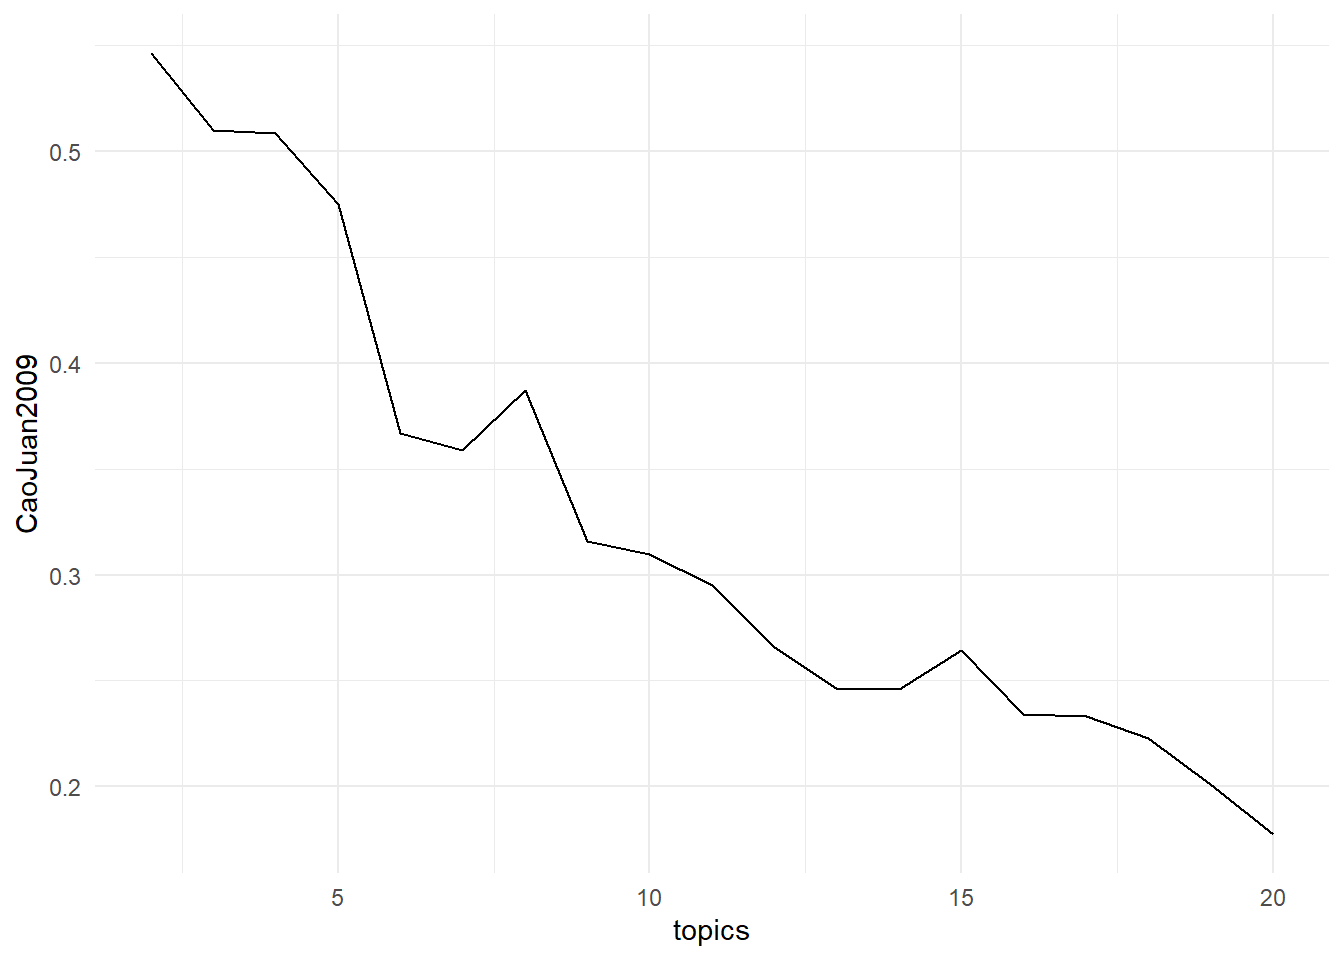
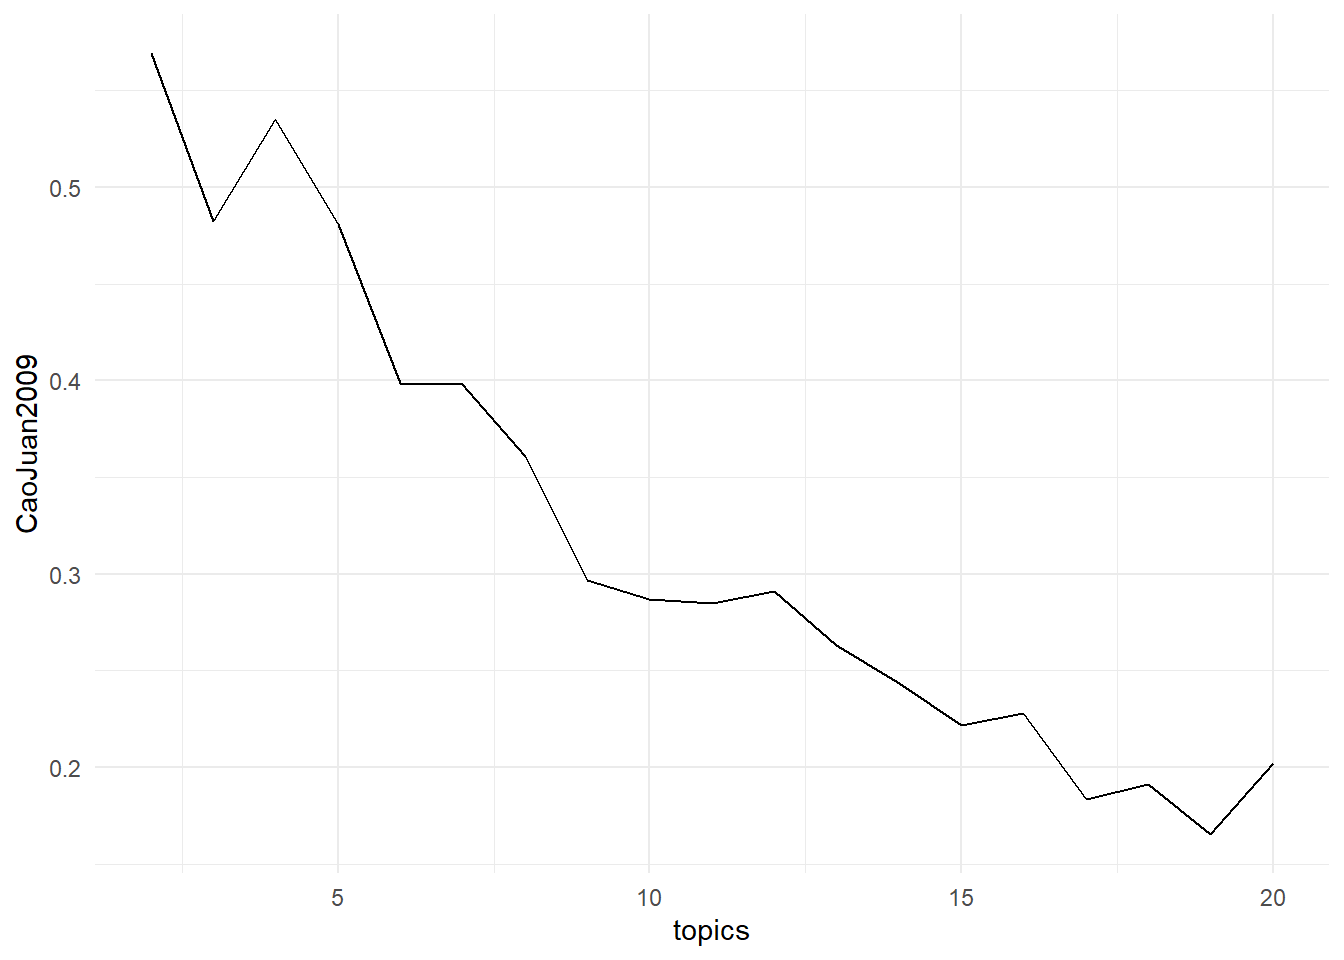
new image

diff --git a/docs/featured_projects/textAnalysis/index.html b/docs/featured_projects/textAnalysis/index.html
@@ -8,7 +8,7 @@
 
 <meta name="author" content="Sujan Bhattarai">
 
-<title>Measuring the most common word in new articles on climate science</title>
+<title>Identifying the most common word in articles on climate science</title>
 <style>
 code{white-space: pre-wrap;}
 span.smallcaps{font-variant: small-caps;}
@@ -152,7 +152,7 @@ pre > code.sourceCode > span > a:first-child::before { text-decoration: underlin
 
 <header id="title-block-header" class="quarto-title-block default">
 <div class="quarto-title">
-<h1 class="title">Measuring the most common word in new articles on climate science</h1>
+<h1 class="title">Identifying the most common word in articles on climate science</h1>
   <div class="quarto-categories">
     <div class="quarto-category">NLP</div>
     <div class="quarto-category">R</div>
@@ -177,8 +177,6 @@ pre > code.sourceCode > span > a:first-child::before { text-decoration: underlin
 
 </header>
 
-<section id="introduction" class="level4">
-<h4 class="anchored" data-anchor-id="introduction">Introduction</h4>
 <p>In today’s era of burgeoning information, understanding the predominant themes and trends in vast volumes of text data is crucial for extracting meaningful insights. This project focuses on leveraging Natural Language Processing (NLP) techniques to analyze a collection of articles centered on climate science. By employing advanced computational methods, we aim to uncover the most prevalent topics discussed across these articles, shedding light on key issues and their interconnectedness within the domain of climate science.</p>
 <p>Objectives 1. Data Collection and Preparation Data Retrieval: Obtain a comprehensive dataset comprising articles related to climate science, sourced from diverse publications. Data Cleaning: Standardize and preprocess the text data to remove noise, such as URLs, dates, and duplicates, ensuring a clean corpus for analysis. 2. Topic Modeling and Optimization Topic Extraction: Apply Latent Dirichlet Allocation (LDA) to identify latent topics within the article corpus. Optimization: Determine the optimal number of topics using quantitative metrics such as CaoJuan2009 and Deveaud2014, ensuring robust and interpretable results. 3. Insights Generation Topic Interpretation: Analyze and interpret the extracted topics to discern prevalent themes and their implications in climate science research. Visualization: Visualize topic distributions and top terms to facilitate intuitive understanding and exploration of thematic clusters.</p>
 <div class="cell">
@@ -310,25 +308,25 @@ calculate metrics:
 <div class="sourceCode cell-code" id="cb7"><pre class="sourceCode r code-with-copy"><code class="sourceCode r"><span id="cb7-1"><a href="#cb7-1" aria-hidden="true" tabindex="-1"></a>results</span></code><button title="Copy to Clipboard" class="code-copy-button"><i class="bi"></i></button></pre></div>
 <div class="cell-output cell-output-stdout">
 <pre><code>   topics CaoJuan2009 Deveaud2014
-1      20   0.1772879    1.315331
-2      19   0.2010516    1.346123
-3      18   0.2230256    1.332259
-4      17   0.2330089    1.360826
-5      16   0.2340249    1.392825
-6      15   0.2644767    1.378697
-7      14   0.2457606    1.464450
-8      13   0.2462769    1.480066
-9      12   0.2657727    1.520338
-10     11   0.2953084    1.509858
-11     10   0.3094999    1.523014
-12      9   0.3157522    1.519622
-13      8   0.3873199    1.483421
-14      7   0.3590052    1.537329
-15      6   0.3671024    1.556525
-16      5   0.4751929    1.546892
-17      4   0.5086420    1.560440
-18      3   0.5099931    1.637603
-19      2   0.5462848    1.604818</code></pre>
+1      20   0.2021806    1.280795
+2      19   0.1652779    1.347815
+3      18   0.1912704    1.356557
+4      17   0.1834667    1.424068
+5      16   0.2282236    1.425089
+6      15   0.2219616    1.427850
+7      14   0.2434244    1.446005
+8      13   0.2632456    1.460039
+9      12   0.2912719    1.465719
+10     11   0.2846825    1.541177
+11     10   0.2870910    1.553476
+12      9   0.2965633    1.588889
+13      8   0.3608896    1.530323
+14      7   0.3980003    1.496667
+15      6   0.3988200    1.551803
+16      5   0.4807731    1.520405
+17      4   0.5353746    1.548122
+18      3   0.4823344    1.609850
+19      2   0.5691497    1.536396</code></pre>
 </div>
 </div>
 <div class="cell">
@@ -351,23 +349,23 @@ calculate metrics:
 <div class="sourceCode cell-code" id="cb11"><pre class="sourceCode r code-with-copy"><code class="sourceCode r"><span id="cb11-1"><a href="#cb11-1" aria-hidden="true" tabindex="-1"></a><span class="co"># Plot the top terms in each topic</span></span>
 <span id="cb11-2"><a href="#cb11-2" aria-hidden="true" tabindex="-1"></a><span class="fu">terms</span>(topicModel_k2, <span class="dv">10</span>) <span class="co"># Most probable words in each topic</span></span></code><button title="Copy to Clipboard" class="code-copy-button"><i class="bi"></i></button></pre></div>
 <div class="cell-output cell-output-stdout">
-<pre><code>      Topic 1         Topic 2  
- [1,] "polar"         "bears"  
- [2,] "bear"          "polar"  
- [3,] "bears"         "ice"    
- [4,] "arctic"        "land"   
- [5,] "ice"           "energy" 
- [6,] "international" "study"  
- [7,] "day"           "said"   
- [8,] "animals"       "sea"    
- [9,] "will"          "time"   
-[10,] "change"        "climate"</code></pre>
+<pre><code>      Topic 1  Topic 2        
+ [1,] "bears"  "polar"        
+ [2,] "polar"  "bear"         
+ [3,] "land"   "bears"        
+ [4,] "energy" "ice"          
+ [5,] "ice"    "international"
+ [6,] "study"  "arctic"       
+ [7,] "said"   "day"          
+ [8,] "sea"    "will"         
+ [9,] "time"   "animals"      
+[10,] "bear"   "sea"          </code></pre>
 </div>
 <div class="sourceCode cell-code" id="cb13"><pre class="sourceCode r code-with-copy"><code class="sourceCode r"><span id="cb13-1"><a href="#cb13-1" aria-hidden="true" tabindex="-1"></a>tmResult <span class="ot">&lt;-</span> <span class="fu">posterior</span>(topicModel_k2)</span>
 <span id="cb13-2"><a href="#cb13-2" aria-hidden="true" tabindex="-1"></a><span class="fu">terms</span>(topicModel_k2)</span></code><button title="Copy to Clipboard" class="code-copy-button"><i class="bi"></i></button></pre></div>
 <div class="cell-output cell-output-stdout">
 <pre><code>Topic 1 Topic 2 
-"polar" "bears" </code></pre>
+"bears" "polar" </code></pre>
 </div>
 <div class="sourceCode cell-code" id="cb15"><pre class="sourceCode r code-with-copy"><code class="sourceCode r"><span id="cb15-1"><a href="#cb15-1" aria-hidden="true" tabindex="-1"></a>theta <span class="ot">&lt;-</span> tmResult<span class="sc">$</span>topics</span>
 <span id="cb15-2"><a href="#cb15-2" aria-hidden="true" tabindex="-1"></a>beta <span class="ot">&lt;-</span> tmResult<span class="sc">$</span>terms</span>
@@ -395,108 +393,103 @@ calculate metrics:
 <tbody>
 <tr class="odd">
 <td style="text-align: right;">1</td>
+<td style="text-align: left;">bears</td>
+<td style="text-align: right;">0.0577475</td>
+</tr>
+<tr class="even">
+<td style="text-align: right;">1</td>
 <td style="text-align: left;">polar</td>
-<td style="text-align: right;">0.0665901</td>
+<td style="text-align: right;">0.0339886</td>
+</tr>
+<tr class="odd">
+<td style="text-align: right;">1</td>
+<td style="text-align: left;">land</td>
+<td style="text-align: right;">0.0167543</td>
+</tr>
+<tr class="even">
+<td style="text-align: right;">1</td>
+<td style="text-align: left;">energy</td>
+<td style="text-align: right;">0.0144153</td>
+</tr>
+<tr class="odd">
+<td style="text-align: right;">1</td>
+<td style="text-align: left;">ice</td>
+<td style="text-align: right;">0.0144153</td>
+</tr>
+<tr class="even">
+<td style="text-align: right;">1</td>
+<td style="text-align: left;">study</td>
+<td style="text-align: right;">0.0142922</td>
+</tr>
+<tr class="odd">
+<td style="text-align: right;">1</td>
+<td style="text-align: left;">said</td>
+<td style="text-align: right;">0.0118302</td>
+</tr>
+<tr class="even">
+<td style="text-align: right;">1</td>
+<td style="text-align: left;">sea</td>
+<td style="text-align: right;">0.0101067</td>
+</tr>
+<tr class="odd">
+<td style="text-align: right;">1</td>
+<td style="text-align: left;">time</td>
+<td style="text-align: right;">0.0093681</td>
 </tr>
 <tr class="even">
 <td style="text-align: right;">1</td>
 <td style="text-align: left;">bear</td>
-<td style="text-align: right;">0.0405691</td>
-</tr>
-<tr class="odd">
-<td style="text-align: right;">1</td>
-<td style="text-align: left;">bears</td>
-<td style="text-align: right;">0.0317828</td>
-</tr>
-<tr class="even">
-<td style="text-align: right;">1</td>
-<td style="text-align: left;">arctic</td>
-<td style="text-align: right;">0.0118446</td>
-</tr>
-<tr class="odd">
-<td style="text-align: right;">1</td>
-<td style="text-align: left;">ice</td>
-<td style="text-align: right;">0.0103239</td>
-</tr>
-<tr class="even">
-<td style="text-align: right;">1</td>
-<td style="text-align: left;">international</td>
-<td style="text-align: right;">0.0099860</td>
-</tr>
-<tr class="odd">
-<td style="text-align: right;">1</td>
-<td style="text-align: left;">day</td>
-<td style="text-align: right;">0.0091411</td>
-</tr>
-<tr class="even">
-<td style="text-align: right;">1</td>
-<td style="text-align: left;">animals</td>
-<td style="text-align: right;">0.0084653</td>
-</tr>
-<tr class="odd">
-<td style="text-align: right;">1</td>
-<td style="text-align: left;">will</td>
-<td style="text-align: right;">0.0082963</td>
-</tr>
-<tr class="even">
-<td style="text-align: right;">1</td>
-<td style="text-align: left;">change</td>
-<td style="text-align: right;">0.0072825</td>
-</tr>
-<tr class="odd">
-<td style="text-align: right;">1</td>
-<td style="text-align: left;">hunting</td>
-<td style="text-align: right;">0.0072825</td>
-</tr>
-<tr class="even">
-<td style="text-align: right;">2</td>
-<td style="text-align: left;">bears</td>
-<td style="text-align: right;">0.0535902</td>
+<td style="text-align: right;">0.0087526</td>
 </tr>
 <tr class="odd">
 <td style="text-align: right;">2</td>
 <td style="text-align: left;">polar</td>
-<td style="text-align: right;">0.0298852</td>
+<td style="text-align: right;">0.0602147</td>
+</tr>
+<tr class="even">
+<td style="text-align: right;">2</td>
+<td style="text-align: left;">bear</td>
+<td style="text-align: right;">0.0372899</td>
+</tr>
+<tr class="odd">
+<td style="text-align: right;">2</td>
+<td style="text-align: left;">bears</td>
+<td style="text-align: right;">0.0267346</td>
 </tr>
 <tr class="even">
 <td style="text-align: right;">2</td>
 <td style="text-align: left;">ice</td>
-<td style="text-align: right;">0.0171861</td>
+<td style="text-align: right;">0.0142002</td>
 </tr>
 <tr class="odd">
 <td style="text-align: right;">2</td>
-<td style="text-align: left;">land</td>
-<td style="text-align: right;">0.0164605</td>
+<td style="text-align: left;">international</td>
+<td style="text-align: right;">0.0097472</td>
 </tr>
 <tr class="even">
 <td style="text-align: right;">2</td>
-<td style="text-align: left;">energy</td>
-<td style="text-align: right;">0.0141625</td>
+<td style="text-align: left;">arctic</td>
+<td style="text-align: right;">0.0095822</td>
 </tr>
 <tr class="odd">
 <td style="text-align: right;">2</td>
-<td style="text-align: left;">study</td>
-<td style="text-align: right;">0.0140416</td>
+<td style="text-align: left;">day</td>
+<td style="text-align: right;">0.0089225</td>
 </tr>
 <tr class="even">
 <td style="text-align: right;">2</td>
-<td style="text-align: left;">said</td>
-<td style="text-align: right;">0.0117436</td>
+<td style="text-align: left;">will</td>
+<td style="text-align: right;">0.0085927</td>
 </tr>
 <tr class="odd">
+<td style="text-align: right;">2</td>
+<td style="text-align: left;">animals</td>
+<td style="text-align: right;">0.0082628</td>
+</tr>
+<tr class="even">
 <td style="text-align: right;">2</td>
 <td style="text-align: left;">sea</td>
-<td style="text-align: right;">0.0102923</td>
-</tr>
-<tr class="even">
-<td style="text-align: right;">2</td>
-<td style="text-align: left;">time</td>
-<td style="text-align: right;">0.0092038</td>
-</tr>
-<tr class="odd">
-<td style="text-align: right;">2</td>
-<td style="text-align: left;">climate</td>
-<td style="text-align: right;">0.0089619</td>
+<td style="text-align: right;">0.0074382</td>
 </tr>
 </tbody>
 </table>
@@ -523,7 +516,6 @@ calculate metrics:
 <p>Overall, the topics extracted from the articles provide valuable insights that polar bears are not talked about in any other topics, other than explicitly discussing polar bears. Exploring more articles and topics could provide more insights on the themes discussed in the articles, but for my subset of articles, polar bears are not discussed in any other context other than research and when discussing international ice days.</p>
 
 
-</section>
 
 </main> <!-- /main -->
 <script id="quarto-html-after-body" type="application/javascript">

diff --git a/docs/featured_projects.html b/docs/featured_projects.html
@@ -246,14 +246,14 @@ Sujan Bhattarai
 </a>
 </div>
 </div>
-<div class="quarto-post image-right" data-index="2" data-categories="NLP,R" data-listing-file-modified-sort="1720918890806" data-listing-reading-time-sort="9">
+<div class="quarto-post image-right" data-index="2" data-categories="NLP,R" data-listing-file-modified-sort="1720920041363" data-listing-reading-time-sort="9">
 <div class="thumbnail">
 <p><a href="./featured_projects/textAnalysis/index.html"> <img src="./featured_projects/textanalysis/news.jpg" class="thumbnail-image"> </a></p>
 </div>
 <div class="body">
 <a href="./featured_projects/textAnalysis/index.html">
 <h3 class="no-anchor listing-title">
-Measuring the most common word in new articles on climate science
+Identifying the most common word in articles on climate science
 </h3>
 <div class="listing-subtitle">
 
